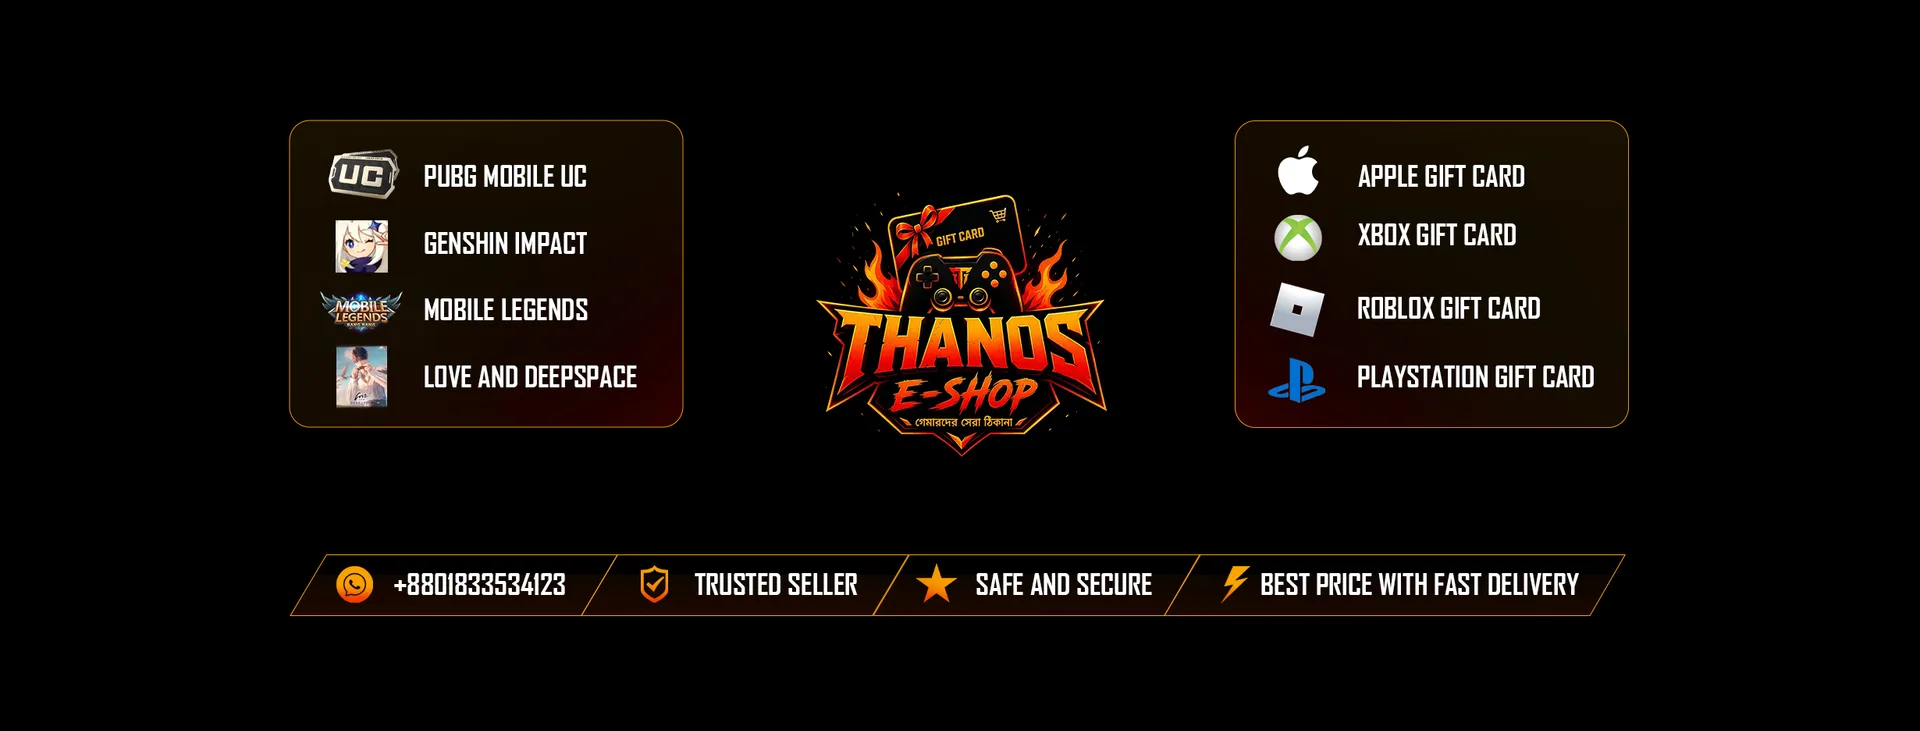
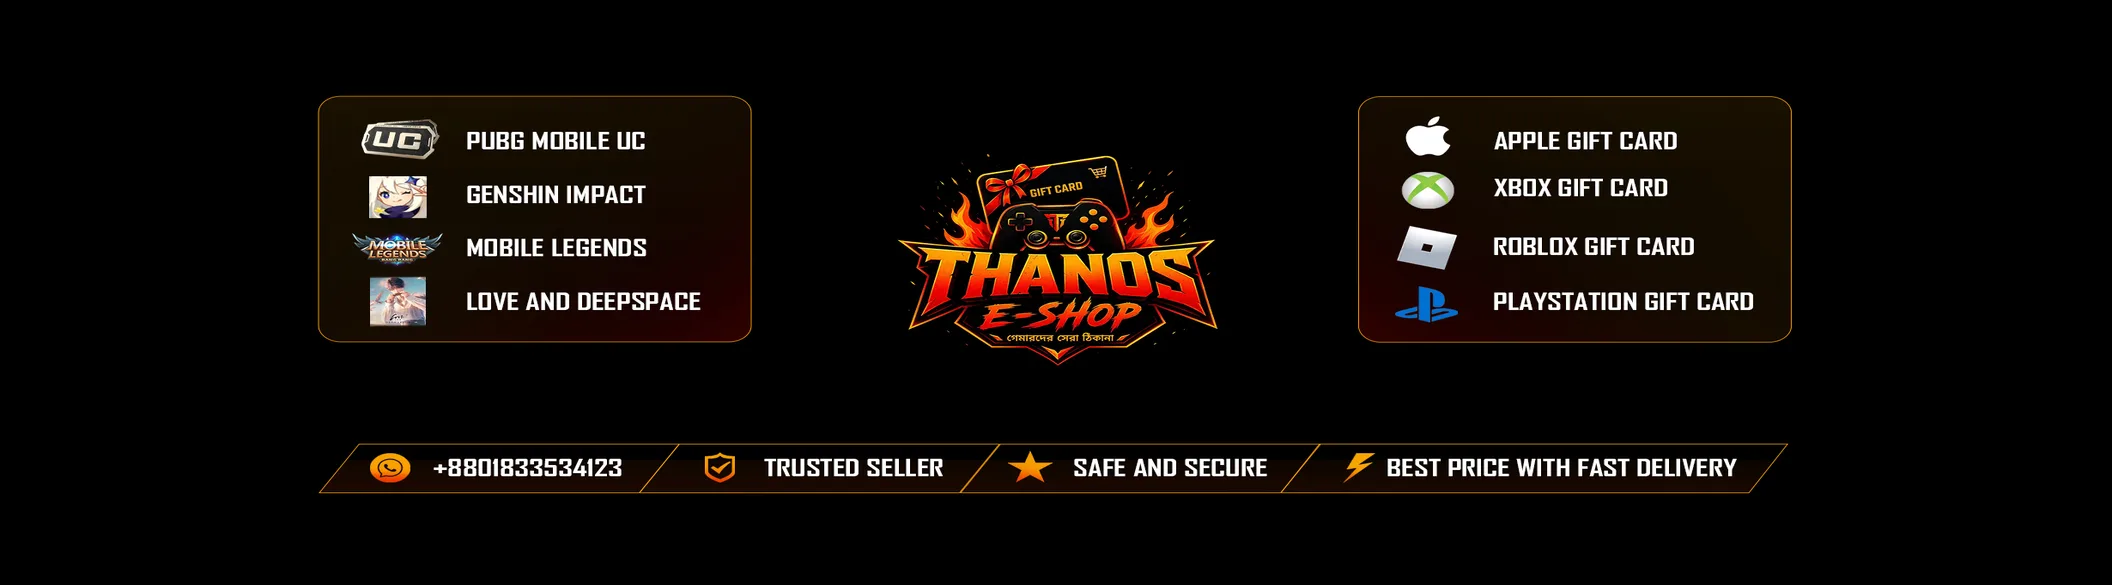
Flatten the cover header: -20% height, +5% stretch each side
Pure resize (fit: fill), no cropping — the whole image still shows.

Claude-Session: https://claude.ai/code/session_01CQ1wM5gvju1nywaBgUwQbE

diff --git a/components/layout/Header.tsx b/components/layout/Header.tsx
@@ -15,8 +15,8 @@ export async function Header() {
         <Image
           src="/cover.webp"
           alt={siteName}
-          width={1920}
-          height={731}
+          width={2112}
+          height={585}
           sizes="100vw"
           className="h-auto w-full"
           priority
